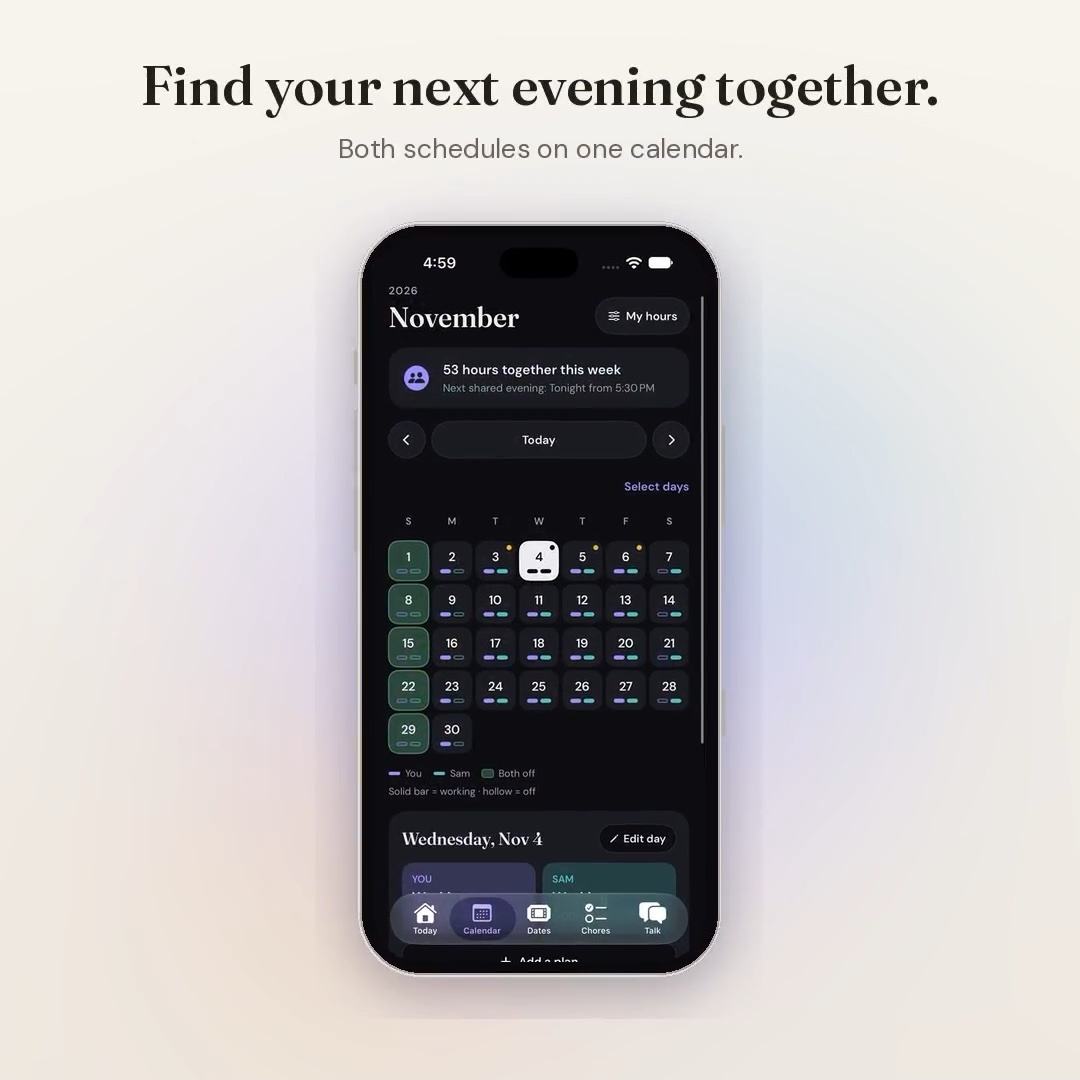
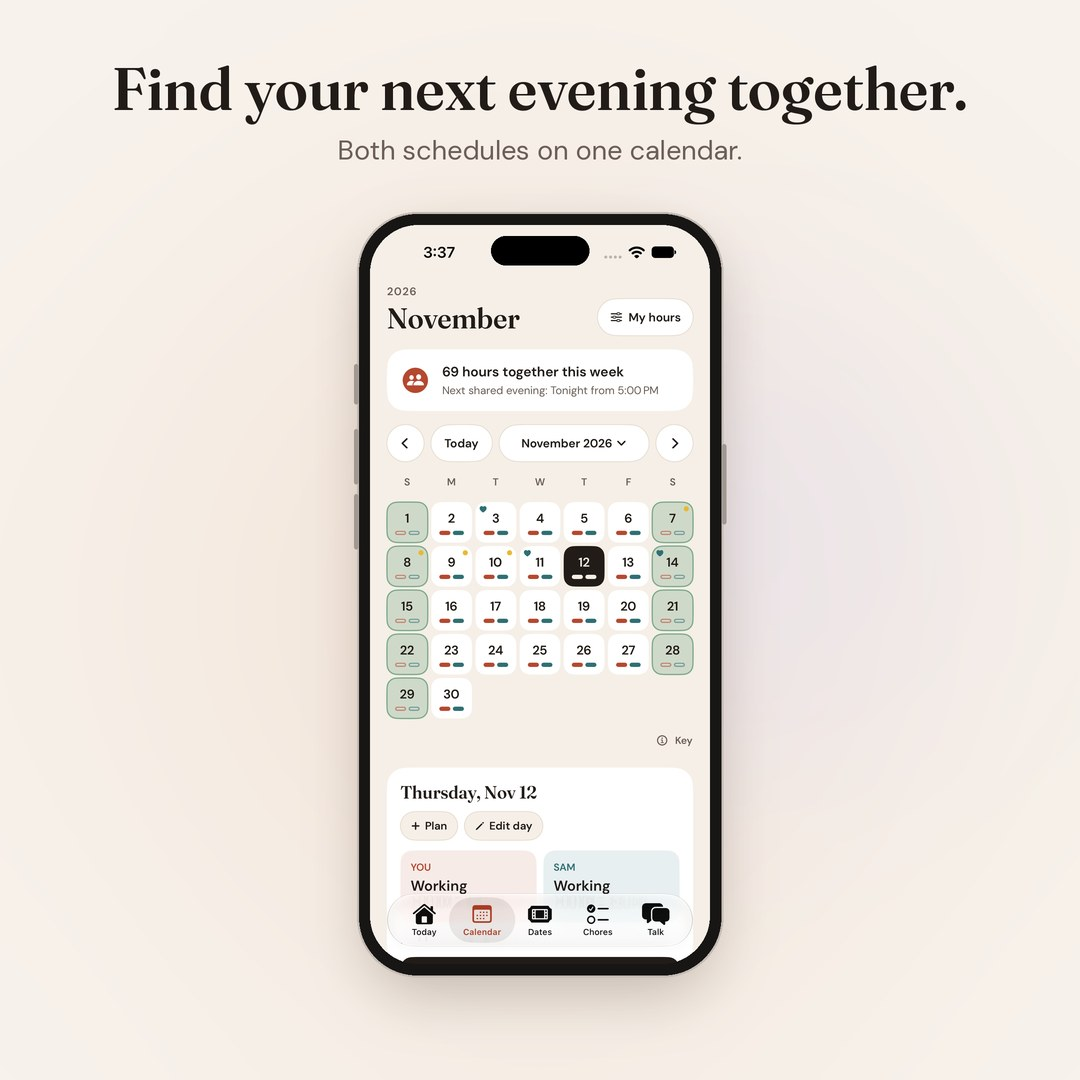
Current app screenshots: Calendar and Talk light from build 23
Captured in the iPhone 18 Pro simulator (sample partner Sam, Linen theme, the free default).
Replaces shots from before build 17: the old Talk image still showed the removed note
field, and the old Calendar the old Select days link and bottom Add a plan button.
?v=2 on both images so Cloudflare and browsers drop the old copies. Calendar caption no
longer says the image is from the film.

Claude-Session: https://claude.ai/code/session_01W4PtX6zeLrRASgXuuxCYjq

Changed region(s): [[0.275, 0.1833, 0.7944, 0.9167], [0.0917, 0.0611, 0.8861, 0.1528]]

diff --git a/index.html b/index.html
@@ -52,8 +52,8 @@
 <section id="together" class="section wrap" aria-labelledby="together-title"><div class="section-heading"><p class="eyebrow">THE EVERYDAY, TOGETHER</p><h2 id="together-title">Different hours.<br>Still on the same team.</h2><p>You don't need matching schedules to make space for each other.</p></div>
  <nav class="story-nav" aria-label="Feature stories"><a href="#story-days" aria-label="Story 1 of 3: Shared days">01 <span>Days</span></a><a href="#story-talk" aria-label="Story 2 of 3: Small gestures">02 <span>Talk</span></a><a href="#story-memories" aria-label="Story 3 of 3: Memories">03 <span>Memories</span></a><span aria-hidden="true">Swipe →</span></nav>
  <div class="feature-track" role="region" aria-label="Three feature stories; swipe or use the story links" tabindex="0">
- <article class="feature" id="story-days"><div class="feature-copy"><p class="eyebrow">01 / SHARED DAYS</p><h3>Find your next<br>evening together.</h3><p>Day shifts, night shifts, one calendar. Twolight finds the evenings you’re both free. You pick what to do with them.</p><ul class="plain-list"><li>Both schedules, side by side</li><li>Shared plans and reminders</li><li>Chores to ask for, groceries to remember</li></ul><span class="badge">Included free</span></div><figure class="product-still"><div class="still-window"><img src="/media/calendar.jpg" width="1080" height="1080" loading="lazy" decoding="async" alt="Twolight Calendar with You and Sam's shifts and their next shared evening."></div><figcaption>Real app view from the Twolight film.</figcaption></figure></article>
- <article class="feature reverse" id="story-talk"><div class="feature-copy"><p class="eyebrow">02 / SMALL GESTURES</p><h3>A little way to say<br>“I'm here.”</h3><p>A hug before your shift. A note for when they wake. Little reminders that you’re on the same team.</p><p>When you need to talk, give them a little context: green for a catch-up, yellow for what’s on your mind, red when it matters.</p><span class="badge">Talk light, hugs and notes are free</span></div><figure class="product-still"><div class="still-window"><img src="/media/talk.jpg" width="1080" height="1080" loading="lazy" decoding="async" alt="Twolight's talk light with Green: Catch up, Yellow: On my mind, and Red: It matters."></div><figcaption>You choose when to light it up.</figcaption></figure></article>
+ <article class="feature" id="story-days"><div class="feature-copy"><p class="eyebrow">01 / SHARED DAYS</p><h3>Find your next<br>evening together.</h3><p>Day shifts, night shifts, one calendar. Twolight finds the evenings you’re both free. You pick what to do with them.</p><ul class="plain-list"><li>Both schedules, side by side</li><li>Shared plans and reminders</li><li>Chores to ask for, groceries to remember</li></ul><span class="badge">Included free</span></div><figure class="product-still"><div class="still-window"><img src="/media/calendar.jpg?v=2" width="1080" height="1080" loading="lazy" decoding="async" alt="Twolight Calendar with You and Sam's shifts and their next shared evening."></div><figcaption>The real app, version 1.0, with sample names.</figcaption></figure></article>
+ <article class="feature reverse" id="story-talk"><div class="feature-copy"><p class="eyebrow">02 / SMALL GESTURES</p><h3>A little way to say<br>“I'm here.”</h3><p>A hug before your shift. A note for when they wake. Little reminders that you’re on the same team.</p><p>When you need to talk, give them a little context: green for a catch-up, yellow for what’s on your mind, red when it matters.</p><span class="badge">Talk light, hugs and notes are free</span></div><figure class="product-still"><div class="still-window"><img src="/media/talk.jpg?v=2" width="1080" height="1080" loading="lazy" decoding="async" alt="Twolight's talk light with Green: Catch up, Yellow: On my mind, and Red: It matters."></div><figcaption>You choose when to light it up.</figcaption></figure></article>
  <article class="memory-panel" id="story-memories"><div><p class="eyebrow">03 / MOMENTS TO KEEP</p><h3>The little things<br>become your story.</h3><p>Keep the photo, the voice memo, the way the evening felt. Logged dates start private. Share a memory when you're ready.</p></div><div class="memory-list"><div><span aria-hidden="true">01</span><p><strong>Dates &amp; memories</strong>Make a plan. Keep a little of it.</p></div><div><span aria-hidden="true">02</span><p><strong>A journal of your own</strong>Your thoughts stay yours.</p></div><div><span aria-hidden="true">03</span><p><strong>Your year together</strong>Look back at the moments you made.</p></div><span class="badge">Photos &amp; voice memos free · Video with Plus</span></div></article>
  </div>
 </section>
